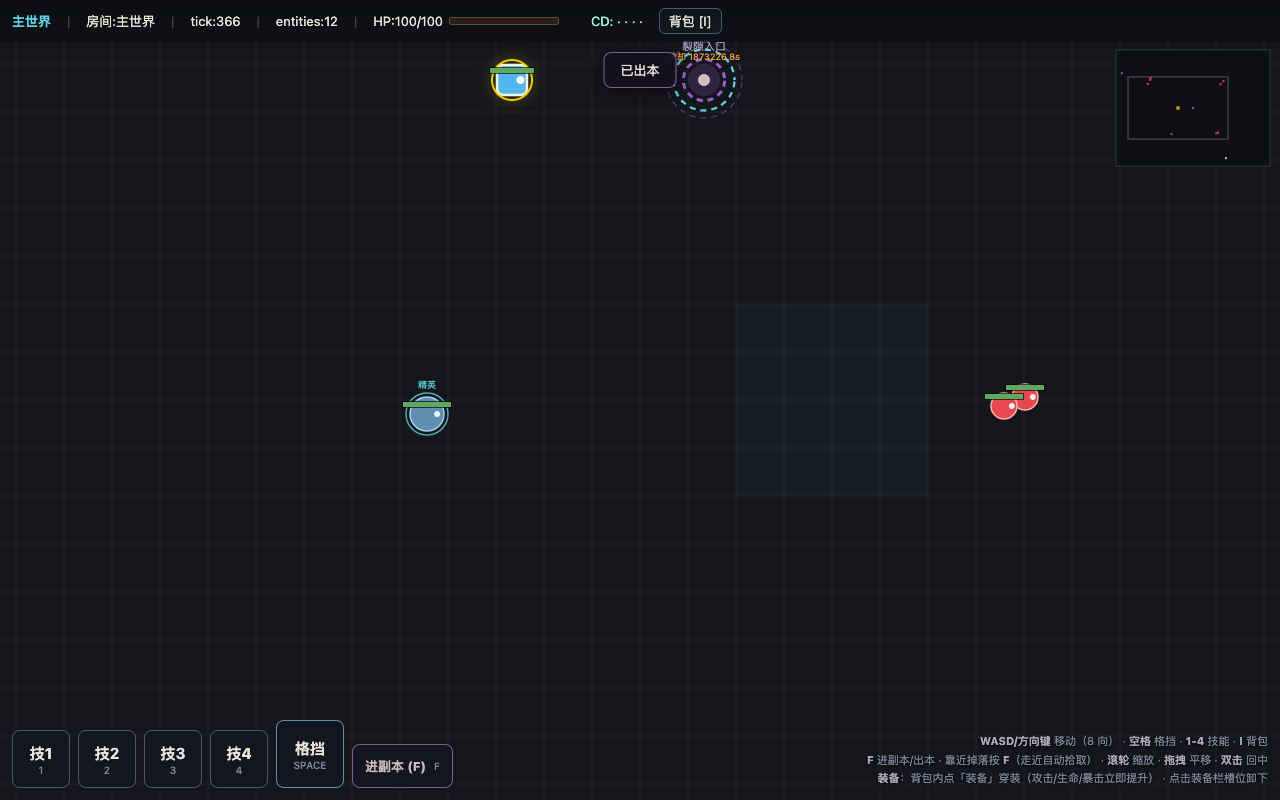
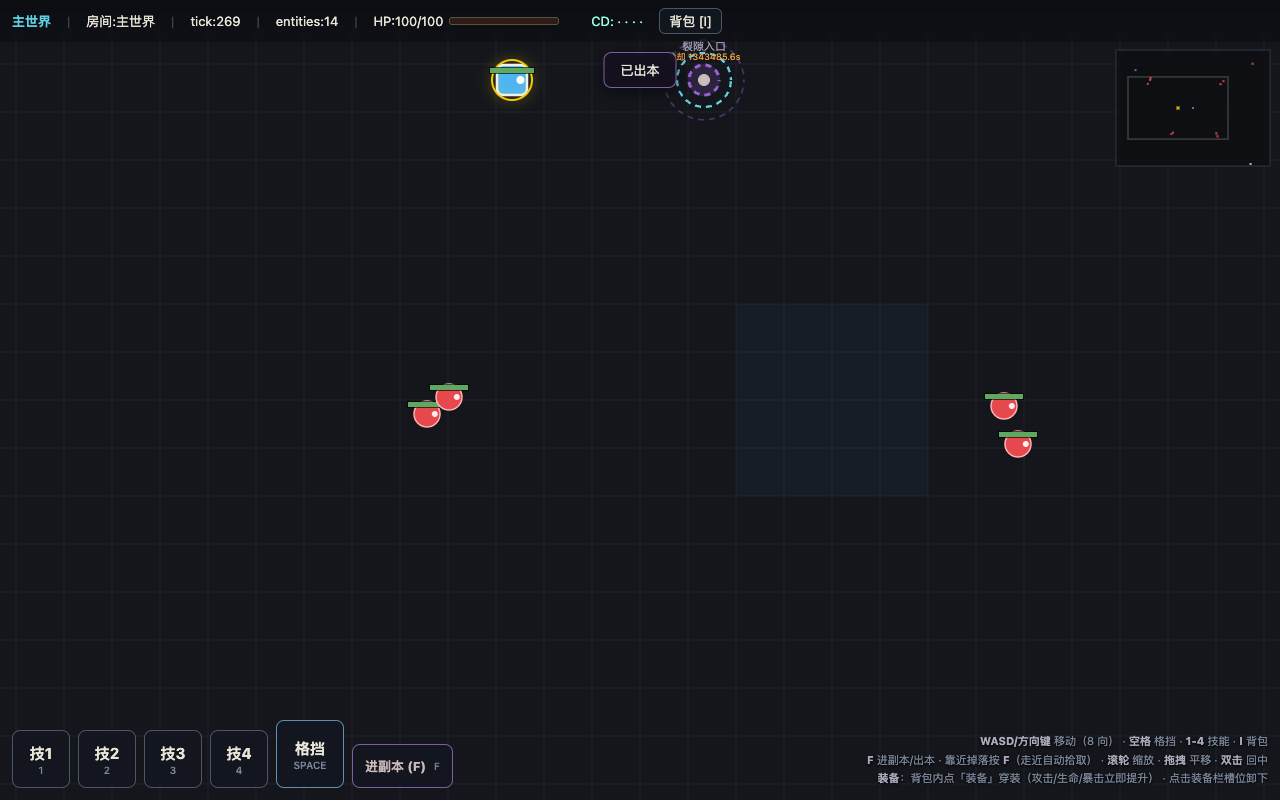
fix(games/jianghu): E7.2 equip usability - friendly error text, guest hint, overworld elite moved to far corner, E2E L6 equip assertion + farmLoot/E1 stability

diff --git a/games/jianghu/apps/web-client/index.html b/games/jianghu/apps/web-client/index.html
@@ -332,6 +332,20 @@ function toast(msg, isErr) {
   toastTimer = setTimeout(() => { toastEl.style.display = 'none'; }, 3500);
 }
 
+// E7.2：服务端错误码 → 中文友好文案（equip/拾取/进出本常见错误）。
+const ERROR_TEXT = {
+  AUTH_REQUIRED: '需要登录（请刷新或检查连接）',
+  NOT_LOGGED_IN: '未登录：游客无法拾取/穿戴。请用 ?devUserId=dev 打开体验完整玩法',
+  ITEM_NOT_FOUND: '物品不在背包（游客模式拾取不会入包）',
+  BAG_FULL: '背包已满',
+  BAD_ITEM_ID: '无效物品',
+  SLOT_EMPTY: '该装备槽是空的',
+  BAD_SLOT: '无效装备槽',
+  NOT_IN_RESIDENT: '需在主世界才能进副本',
+  NOT_IN_INSTANCE: '需在副本内才能出本',
+  COOLDOWN: '入口冷却中，稍后再试',
+};
+
 // 拾取 toast（屏幕下方，稀有度色）
 let pickupToastTimer = null;
 function pickupToast(html) {
@@ -485,6 +499,8 @@ function handleControl(msg) {
       seatId = msg.seatId;
       tickMs = msg.tickMs || TICK_MS;
       GAME.seatId = seatId; GAME.guest = msg.guest;
+      // E7.2：游客模式提示（裸开页面=游客，拾取/装备不保存）。
+      if (msg.guest) setTimeout(() => toast('游客模式：拾取/装备不保存，用 ?devUserId=dev 打开可登录体验完整玩法'), 800);
       if (state === 'reconnecting') {
         if (reconnectToken && roomId) {
           sendJson({ type: 'session.reconnect', requestId: 'rec', payload: { roomId, reconnectToken } });
@@ -546,7 +562,7 @@ function handleControl(msg) {
       break;
     case 'game.error': {
       const code = msg.error && msg.error.code;
-      toast('服务端: ' + (code || 'unknown'), true);
+      toast(ERROR_TEXT[code] || ('服务端: ' + (code || 'unknown')), true);
       GAME.errors.push('game.error:' + code);
       break;
     }

diff --git a/games/jianghu/apps/jianghu/src/run-manager.ts b/games/jianghu/apps/jianghu/src/run-manager.ts
@@ -240,13 +240,14 @@ export function stopRun(roomId: string): void {
 export function bootResidentRun(seed = "jianghu-overworld-0"): WorldSnapshot {
   const room = getRoom(RESIDENT_ROOM_ID);
   const roomId = room?.roomId ?? RESIDENT_ROOM_ID;
-  // E7.1：主世界刷怪区（普通 passive 站桩 + 1 精英 aggressive 巡逻；围绕出生点四周，出生点/入口保持安全距离）。
-  // 解决「主世界无怪可打、无掉落来源、E1 占位 LOOT token ttl 过期后空场」；掉落持续循环（respawnTicks 600-900）。
+  // E7.1：主世界刷怪区（普通 passive 站桩 + 精英 aggressive 巡逻；围绕出生点四周，出生点/入口保持安全距离）。
+  // E7.2：精英移到远角 (36,4)，出生点 (16,15) 附近全是 passive 普通怪（新手/E2E farmLoot 不会被精英反杀）。
   const overworldZones: SpawnZone[] = [
     { pos: { x: 8 * TILE, y: 8 * TILE }, tier: 0, enemyTypeId: "savage", count: 3, respawnTicks: 600, aggression: "passive" },
     { pos: { x: 28 * TILE, y: 8 * TILE }, tier: 0, enemyTypeId: "brigand", count: 2, respawnTicks: 600, aggression: "passive" },
-    { pos: { x: 14 * TILE, y: 22 * TILE }, tier: 1, enemyTypeId: "shadow", count: 1, respawnTicks: 900, aggression: "aggressive" },
+    { pos: { x: 14 * TILE, y: 22 * TILE }, tier: 0, enemyTypeId: "brigand", count: 2, respawnTicks: 600, aggression: "passive" },
     { pos: { x: 26 * TILE, y: 22 * TILE }, tier: 0, enemyTypeId: "brigand", count: 2, respawnTicks: 600, aggression: "passive" },
+    { pos: { x: 36 * TILE, y: 4 * TILE }, tier: 1, enemyTypeId: "shadow", count: 1, respawnTicks: 900, aggression: "aggressive" },
   ];
   return startRun({
     runId: "run_resident",
